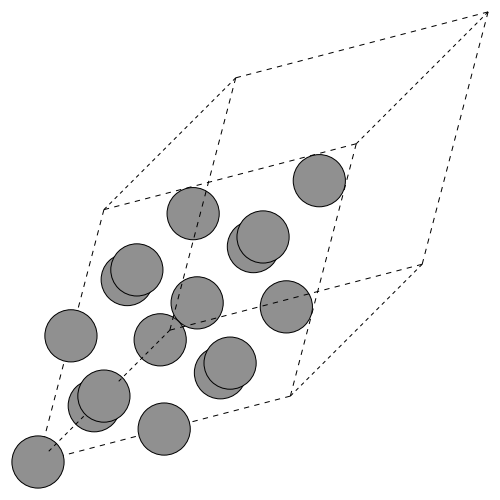
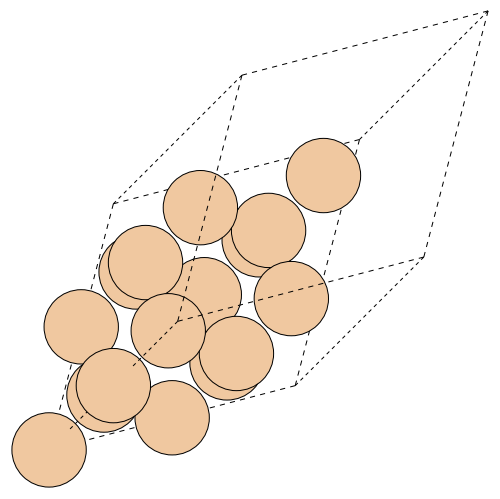
fix carbon species mistake

diff --git a/week4/si-2.py b/week4/si-2.py
@@ -16,7 +16,7 @@ st = {
     ),
     "species": [
         {
-            "name": "C",
+            "name": "Si",
             "positions": [
                 [0.0, 0.0, 0.0],
                 [1/4, 1/4, 1/4],
